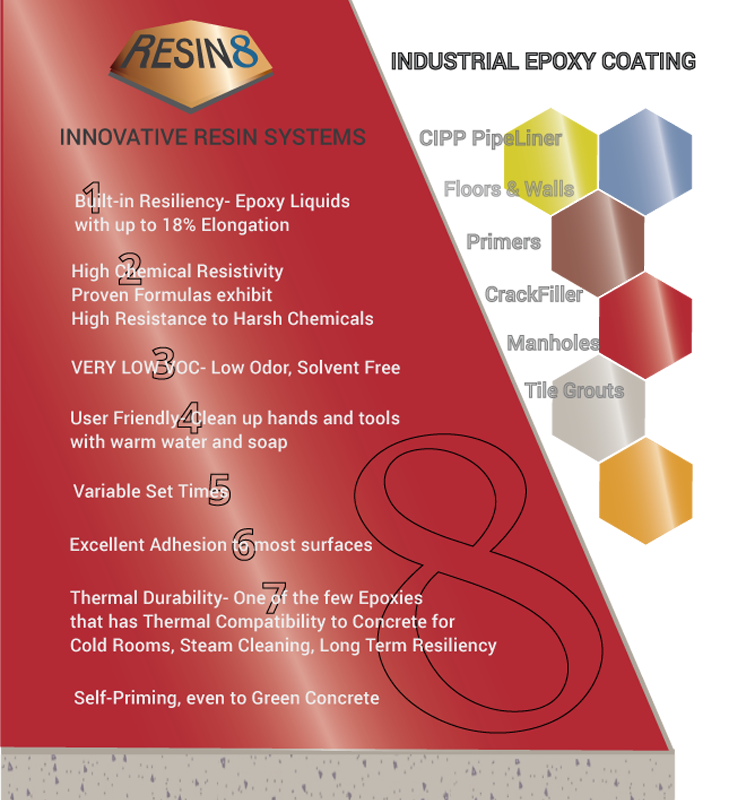
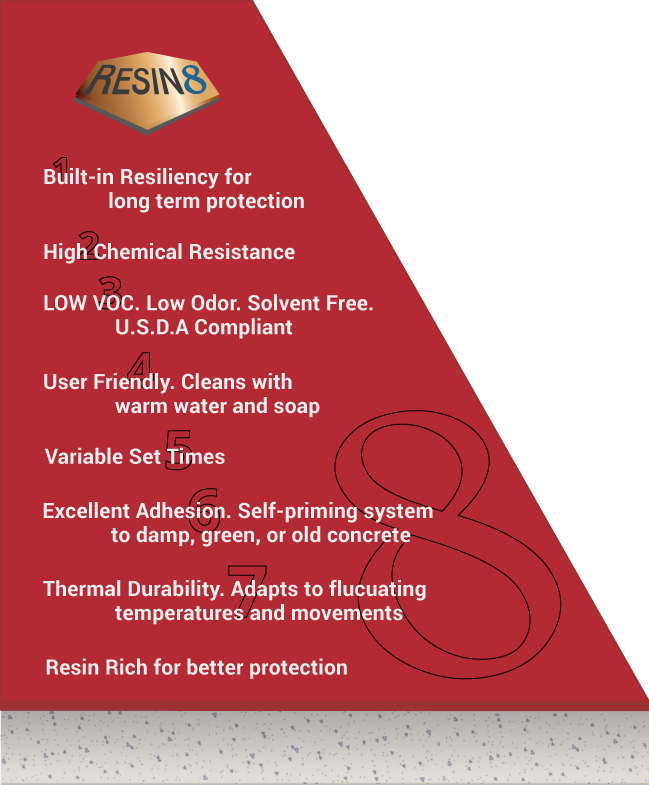
update sliders

diff --git a/Web/Web/rs-plugin/css/settings.css b/Web/Web/rs-plugin/css/settings.css
@@ -303,8 +303,8 @@ white-space:nowrap;
 
 .tp-caption.medium_text {
 position:absolute;
-color:#555;
-/*text-shadow:0px 1px 1px rgba(0, 0, 0, 0.5);*/
+color:#fff;
+text-shadow:0px 1px 1px rgba(0, 0, 0, 0.5);
 font-weight:700;
 font-size:24px;
 line-height:26px;
@@ -313,6 +313,7 @@ margin:0px;
 border-width:0px;
 border-style:none;
 white-space:nowrap;
+letter-spacing: 2px;
 }
 
 
